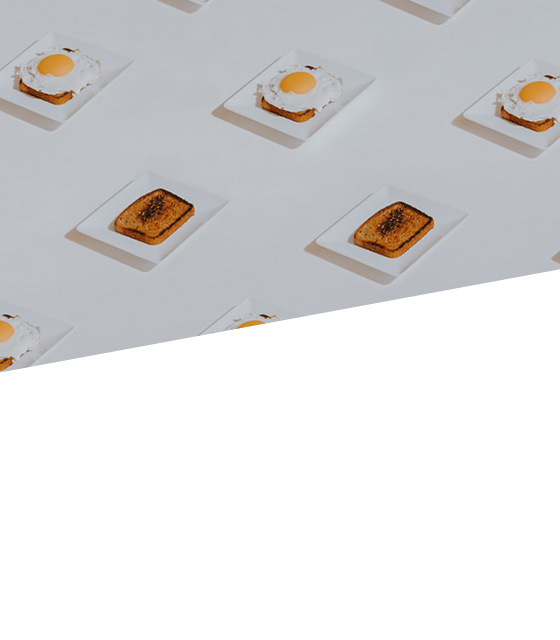
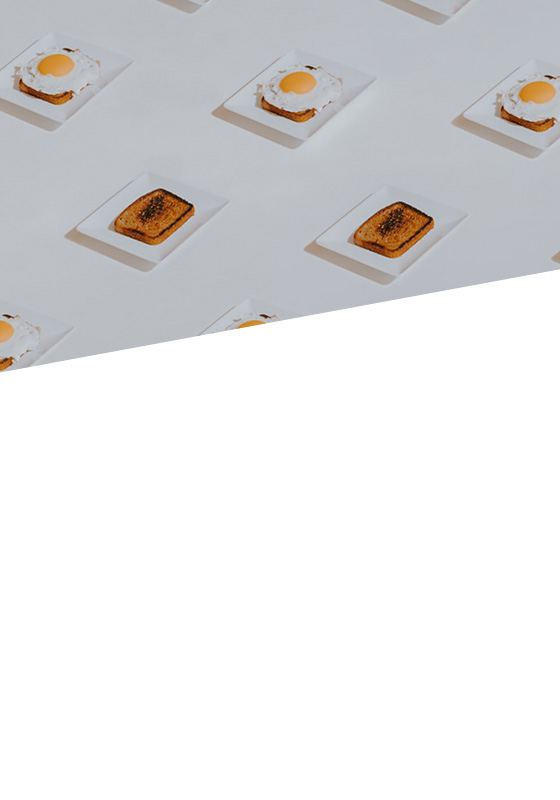
home, header CSS 수정

diff --git a/src/components/home/home.module.css b/src/components/home/home.module.css
@@ -13,8 +13,12 @@
 }
 
 .Home_Page {
+  width: 100vw;
+  height: 100vh;
+  position: absolute;
   display: flex;
   overflow: hidden;
+  touch-action: none;
 }
 
 .slide_section > input[id*="slide"] {
@@ -25,7 +29,7 @@
   display: flex;
   position: absolute;
   top: 5.5rem;
-  background-image: url(../../image/home_bg1_blurred.jpg);
+  background-image: url(../../image/home_background.jpg);
   width: 100%;
   height: 868px;
   overflow: hidden;
@@ -34,12 +38,13 @@
 .slide_section {
   display: flex;
   width: 100%;
-  height: 700px;
+  height: 800px;
   position: relative;
   overflow: hidden;
   margin: 0 auto;
-  left: 16%;
-  top: 4.5rem;
+  vertical-align: middle;
+  align-items: center;
+  justify-content: center;
   white-space: nowrap;
 }
 
@@ -254,10 +259,28 @@
 }
 
 @media screen and (max-width: 860px) {
+  .home {
+    height: 100%;
+  }
+
+  .slideWrap {
+    height: 800px;
+  }
+
+  .slides {
+    height: 800px;
+  }
+
   .slide_section {
     width: 560px;
+    height: 100%;
     margin: 0 auto;
-    left: 0;
+  }
+
+  .about1,
+  .about2,
+  .about3 {
+    height: 800px;
   }
 
   .about1_img {
@@ -271,34 +294,195 @@
   .about3_img {
     background-image: url(../../image//home_bg3_860.jpg);
   }
+
+  .about1_subtitle,
+  .about3_subtitle {
+    border-radius: 0.4rem;
+    background-color: rgba(255, 255, 255, 0.692);
+    padding: 1rem;
+    left: 10%;
+    top: 5%;
+  }
+
+  .about2_subtitle {
+    border-radius: 0.4rem;
+    background-color: rgba(255, 255, 255, 0.692);
+    padding: 1rem;
+    left: -10%;
+    top: 5%;
+  }
+
+  .about2_right {
+    display: none;
+  }
+
+  .about2_description {
+    left: 5%;
+  }
+
+  .about1_text,
+  .about2_text,
+  .about3_text {
+    width: 23rem;
+    font-size: 1.3rem;
+    top: 58%;
+    padding: 0.5rem;
+    border-radius: 0.4rem;
+    background-color: rgba(220, 236, 245, 0.404);
+  }
+
+  .about1_text {
+    background-color: rgba(220, 245, 220, 0.404);
+  }
+
+  .about2_text {
+    background-color: rgba(220, 236, 245, 0.404);
+    left: 20%;
+  }
+
+  .about3_text {
+    background-color: rgba(245, 220, 228, 0.404);
+  }
+
+  .footer {
+    display: none;
+  }
 }
 
 @media screen and (max-width: 416px) {
+  .home {
+    align-items: center;
+    justify-content: center;
+    overflow-y: hidden;
+    width: 100%;
+    min-height: 100vh;
+    flex: 1;
+  }
   .slide_section {
-    top: 1.5rem;
-    width: 20rem;
-    height: 36rem;
+    overflow-y: hidden;
+    object-fit: cover;
+    min-height: 100vh;
+    width: 100%;
+    top: 1rem;
+  }
+
+  .slideWrap {
+    width: 100%;
+    min-height: 100%;
+  }
+
+  .about1,
+  .about2,
+  .about3 {
+    min-height: 100%;
+  }
+
+  .about1_img,
+  .about2_img,
+  .about3_img {
+    object-fit: cover;
+    height: 75vh;
+  }
+
+  .about1_subtitle,
+  .about3_subtitle {
+    font-size: 1.1rem;
+    left: 5%;
+    top: 5%;
+  }
+
+  .about2_subtitle {
+    font-size: 1.1rem;
+  }
+
+  .about1_text,
+  .about3_text {
+    font-size: 0.9rem;
+    width: 12rem;
+    top: 58%;
+    left: 40%;
+  }
+
+  .about2_text {
+    font-size: 0.9rem;
+    width: 12rem;
+    left: -10%;
+  }
+
+  .about1_descriptImg,
+  .about2_descriptImg,
+  .about3_descriptImg {
+    display: flex;
+    width: 8rem;
+    position: absolute;
+    top: 31%;
+    left: 10%;
+  }
+
+  .about2_descriptImg {
+    left: 35%;
+  }
+
+  .about3_descriptImg {
+    width: 10rem;
+  }
+
+  .footer {
+    display: flex;
+    bottom: 0;
+  }
+}
+
+@media screen and (max-width: 324px) {
+  .slide_section {
+    top: -2.8%;
+    width: 100%;
+    height: 90%;
     margin: 0 auto;
+    left: 0;
+    font-size: 0.8rem;
+  }
+  .about1_description,
+  .about2_description,
+  .about3_description {
+    width: 100vw;
+    height: 80vh;
+    align-items: center;
+    justify-content: center;
+  }
+
+  .about1_text,
+  .about2_text,
+  .about3_text {
+    font-size: 0.8rem;
+    align-items: center;
+    justify-content: center;
+  }
+
+  .about1_text,
+  .about3_text {
+    font-size: 0.8rem;
+    width: 11rem;
+    top: 55%;
+    left: 30%;
+  }
+
+  .about2_subtitle {
+    width: 15rem;
+    font-size: 1rem;
+  }
+
+  .about1_descriptImg,
+  .about2_descriptImg,
+  .about3_descriptImg {
+    width: 5rem;
+    align-items: center;
+    justify-content: center;
     left: 0;
   }
 
-  .about1_img {
-    object-fit: cover;
-  }
-
-  .right {
-    width: 3rem;
-    object-fit: cover;
-    right: 1rem;
-  }
-
-  .left {
-    width: 3rem;
-    object-fit: cover;
-    left: 1rem;
-  }
-
-  .slides > li > label {
-    top: 45%;
+  .about3_descriptImg {
+    width: 7rem;
+    left: 10%;
   }
 }

diff --git a/src/components/home/home.jsx b/src/components/home/home.jsx
@@ -19,8 +19,8 @@ const Home = ({ authService }) => {
           <div className={styles.slideWrap}>
             <ul className={styles.slides}>
               <li className={styles.about1}>
-                <label for="slide3" className={styles.left}></label>
-                <label for="slide2" className={styles.right}></label>
+                <label htmlFor="slide3" className={styles.left}></label>
+                <label htmlFor="slide2" className={styles.right}></label>
                 <div className={styles.about1_img}>
                   <div className={styles.about1_description}>
                     <h3 className={styles.about1_subtitle}>
@@ -44,8 +44,8 @@ const Home = ({ authService }) => {
                 </div>
               </li>
               <li className={styles.about2}>
-                <label for="slide1" className={styles.left}></label>
-                <label for="slide3" className={styles.right}></label>
+                <label htmlFor="slide1" className={styles.left}></label>
+                <label htmlFor="slide3" className={styles.right}></label>
                 <div className={styles.about2_img}>
                   <div className={styles.about2_right}></div>
                   <div className={styles.about2_description}>
@@ -71,8 +71,8 @@ const Home = ({ authService }) => {
                 </div>
               </li>
               <li className={styles.about3}>
-                <label for="slide2" className={styles.left}></label>
-                <label for="slide1" className={styles.right}></label>
+                <label htmlFor="slide2" className={styles.left}></label>
+                <label htmlFor="slide1" className={styles.right}></label>
                 <div className={styles.about3_img}>
                   <div className={styles.about3_description}>
                     <h3 className={styles.about3_subtitle}>

diff --git a/src/components/header/header.jsx b/src/components/header/header.jsx
@@ -57,9 +57,6 @@ const Header = ({ authService }) => {
         <li className={styles.category} key="home">
           <Link to="/">Home</Link>
         </li>
-        <li className={styles.category} key="menu">
-          Menu
-        </li>
       </ul>
       <button
         className={`BtnLogout ${isLogin ? "visible" : "invisible"}`}

diff --git a/src/components/header/header.module.css b/src/components/header/header.module.css
@@ -63,7 +63,7 @@ a {
 .category {
   display: flex;
   list-style: none;
-  padding: 0.5rem 3rem;
+  padding: 0.5rem 4rem;
   transition: all 0.3ms ease;
 }
 
@@ -142,6 +142,6 @@ a {
 
 @media screen and (max-width: 360px) {
   .BtnMenuBar {
-    right: 1.9rem;
+    right: 0.5rem;
   }
 }

diff --git a/src/components/header/header.css b/src/components/header/header.css
@@ -78,6 +78,6 @@
 @media screen and (max-width: 360px) {
   .BtnLogin.visible,
   .BtnLogout.visible {
-    right: 7rem;
+    right: 5rem;
   }
 }
